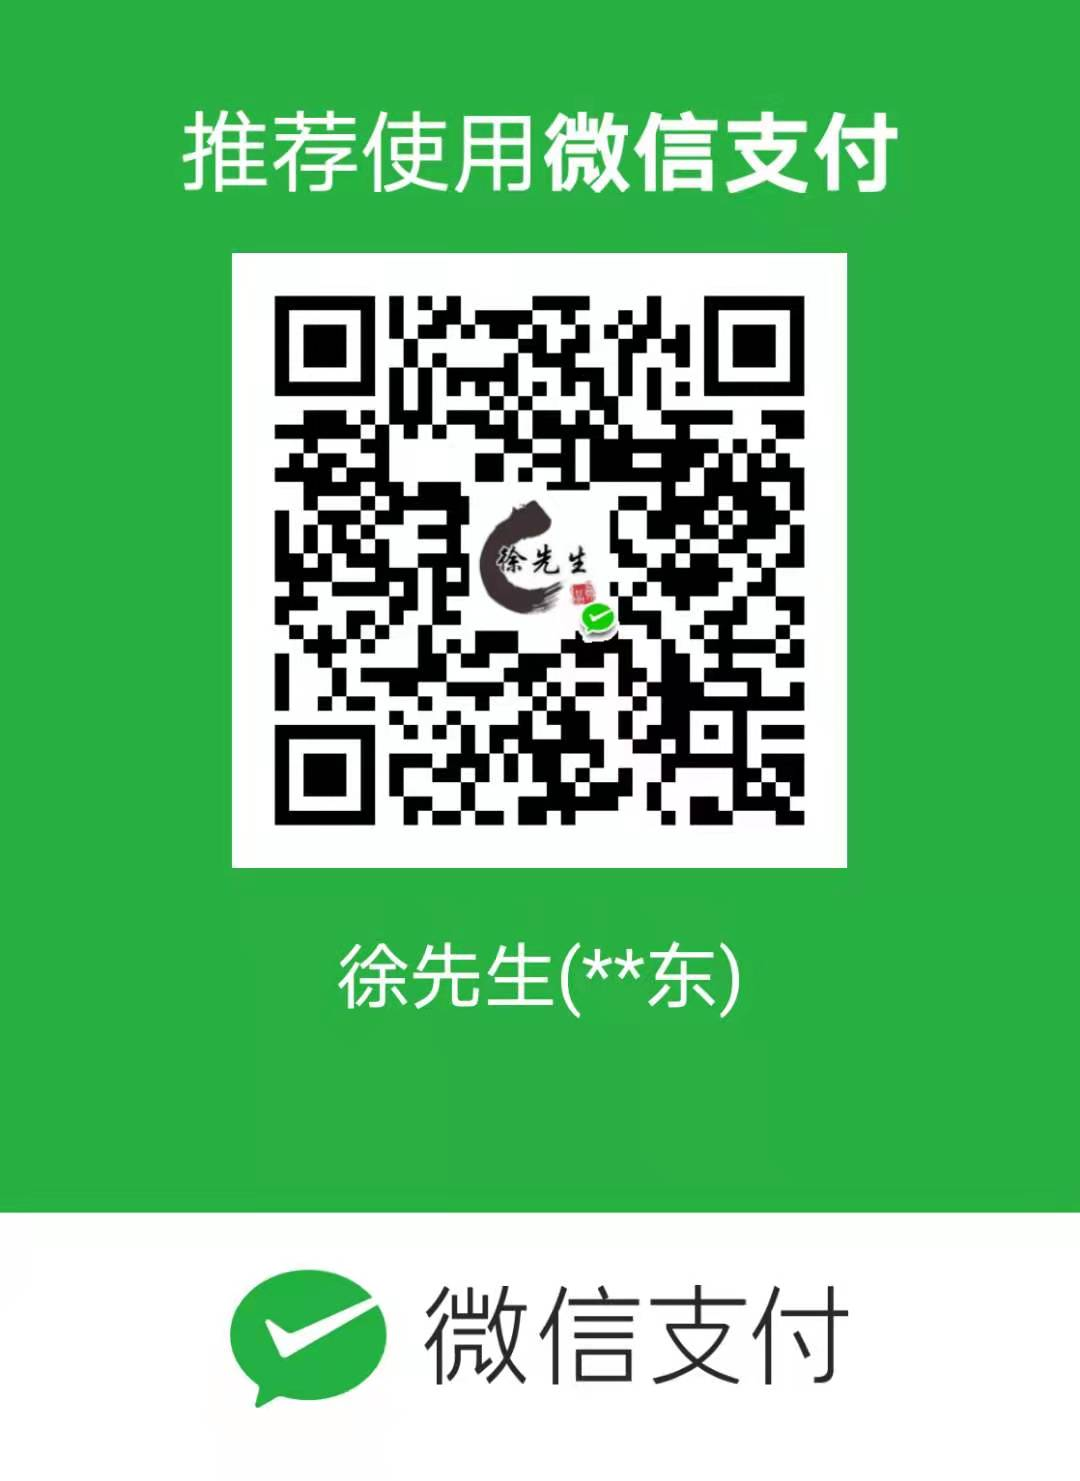
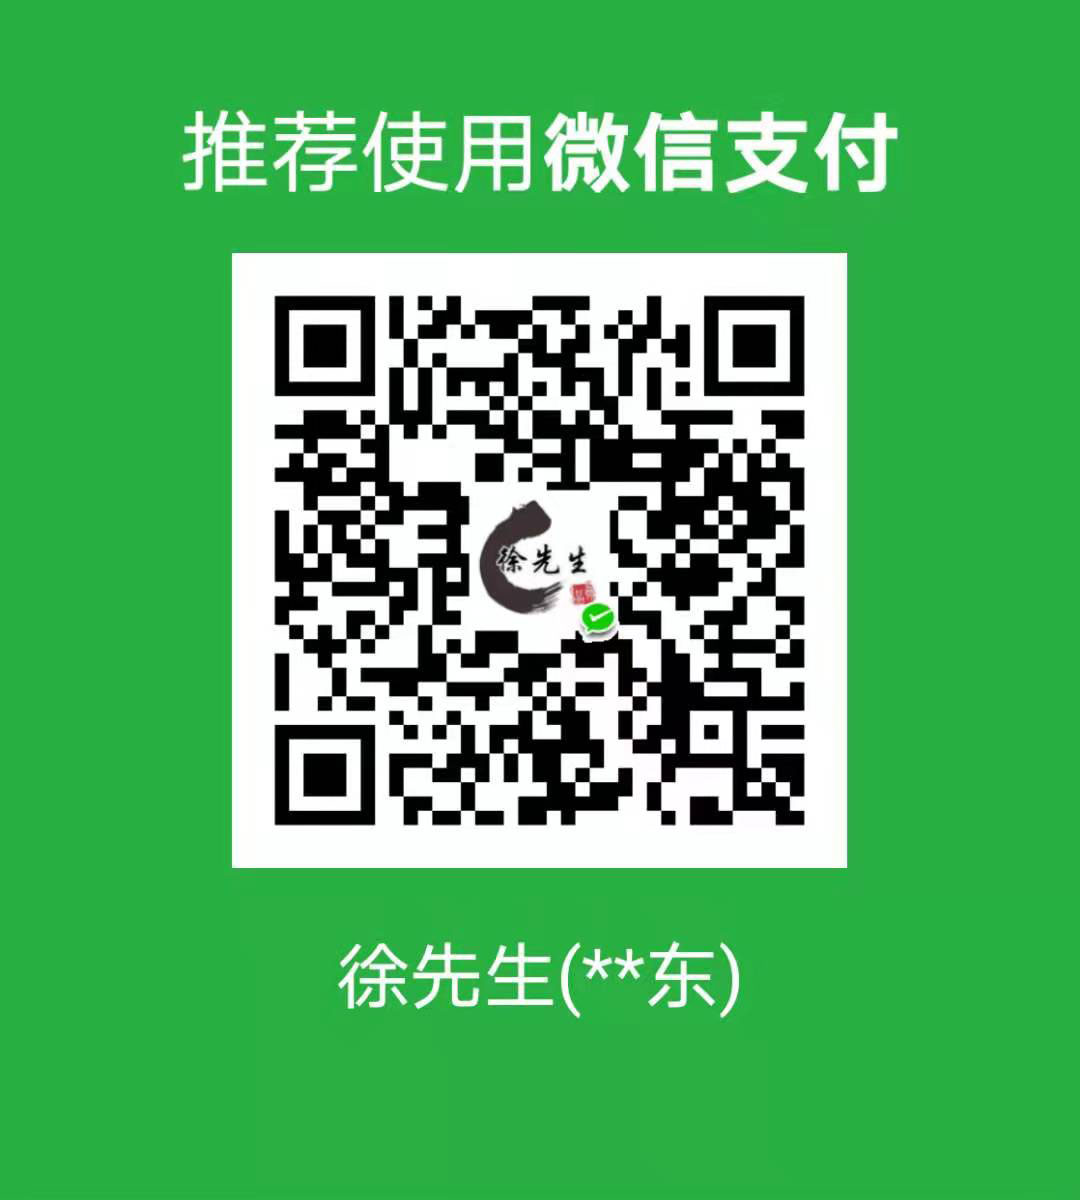
style：修改捐赠支持图片以及样式

diff --git a/src/views/index/index.vue b/src/views/index/index.vue
@@ -91,8 +91,8 @@
             <span>捐赠支持</span>
           </div>
           <div class="body" style="text-align: center">
-            <el-image :src="wx" style="width: 324px;height: 444px;display: inline-block" fit="contain"></el-image>
-            <el-image :src="zfb" style="width: 324px;height: 444px;display: inline-block" fit="contain"></el-image>
+            <el-image :src="wx" style="width: 324px;height: 360px;display: inline-block;margin-right: 50px" fit="contain"></el-image>
+            <el-image :src="zfb" style="width: 324px;height: 360px;display: inline-block" fit="contain"></el-image>
             <span style="display: block; height: 30px; margin-top: 20px;">你可以请作者喝杯咖啡表示鼓励</span>
           </div>
         </el-card>
